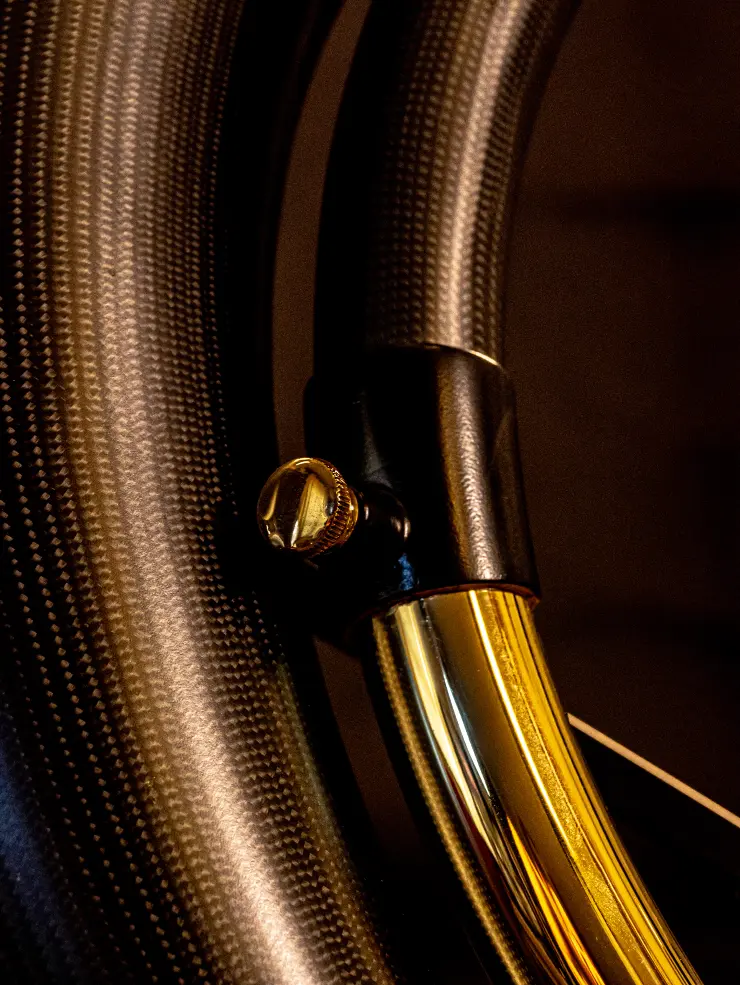
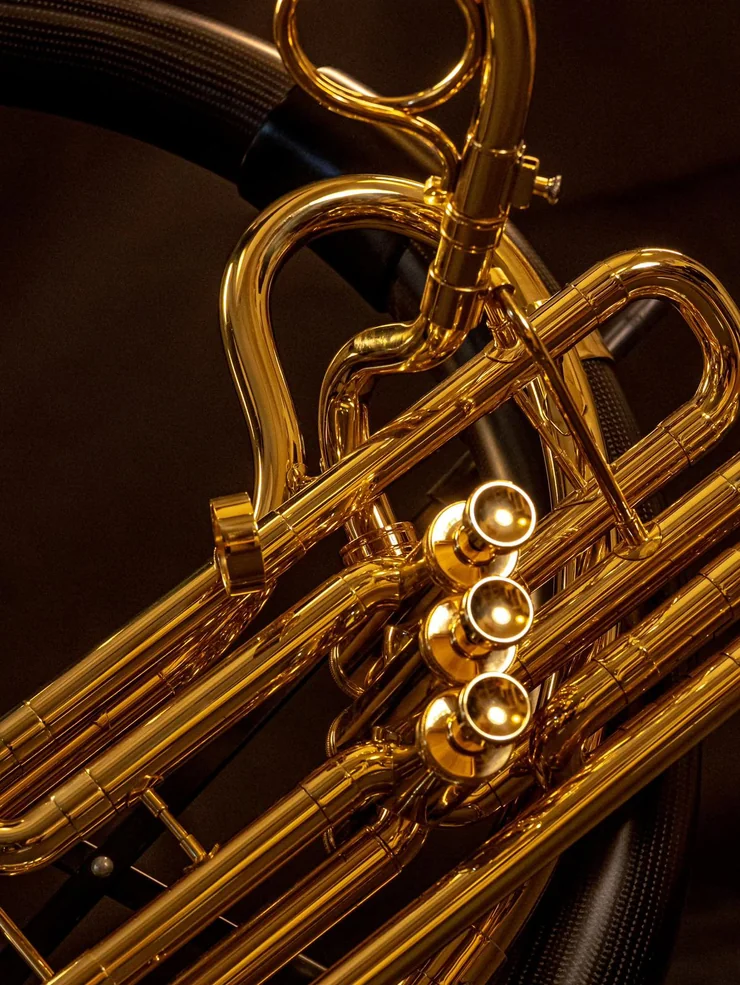
35 | Galerie | emplacements 03–05 câblés : petites 3/4 exportées en WebP q85 (740×985) depuis les JPEG sources
Generated by Mistral Vibe.

diff --git a/src/app/galerie/page.js b/src/app/galerie/page.js
@@ -41,6 +41,21 @@ const PHOTOS = {
     src: "/galerie/galerie-02.webp",
     alt: "Photographie du Sousaphone Carbon",
   },
+  // Emplacements 03–05 (petites 3/4) : exports WebP q85 depuis les
+  // JPEG sources, recadrés à 740×985 (consigne rétina 2×). Les alt
+  // décriront les scènes réelles à la relecture.
+  "03": {
+    src: "/galerie/galerie-03.webp",
+    alt: "Photographie du Sousaphone Carbon",
+  },
+  "04": {
+    src: "/galerie/galerie-04.webp",
+    alt: "Photographie du Sousaphone Carbon",
+  },
+  "05": {
+    src: "/galerie/galerie-05.webp",
+    alt: "Photographie du Sousaphone Carbon",
+  },
 };
 
 // Photo d'ouverture du hero : dédiée au hero, hors numérotation de
